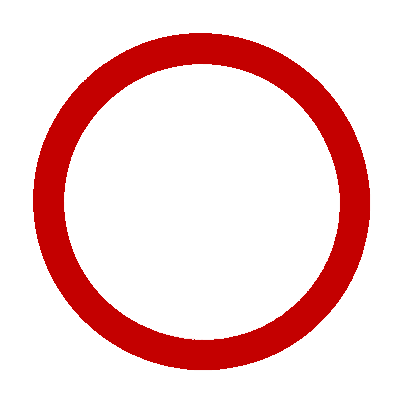
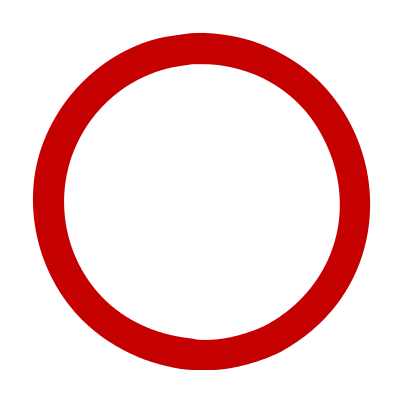
Minor changes to appearance.  Made the light theme images higher quality.

Changed region(s): [[0.45, 0.84, 0.48, 0.87]]

diff --git a/qml/ultimatetictactoe/Settings.qml b/qml/ultimatetictactoe/Settings.qml
@@ -40,7 +40,7 @@ Rectangle
     Flickable
     {
         id: flowListFLickable;
-        width: main.width/3;
+        width: main.width;
         height: titleHeight + buttonHeight + smallButtonHeight + 20*2;  //this is the height of all the objects in the flow added together plus the spacing (20 is the spacing of the flow and the number multiplied by 20 is the number of objects in it)
 
 
@@ -54,11 +54,11 @@ Rectangle
         contentHeight: main.height;
 
 
-        Flow
+        Flow  //This makes all of the settings easier to position
         {
             id: flow;
 
-            width: parent.width;
+            width: parent.width/3;
             height: parent.height;
             anchors.centerIn: parent;
 
@@ -112,20 +112,6 @@ Rectangle
 
             MyButton
             {
-                id: darkThemeButton;
-
-                width: main.smallButtonWidth;
-                height: main.smallButtonHeight;
-                buttonText: "Dark"
-
-                fontSize: Vals.smallFontSize;
-                textColor: "#333333"
-
-                onClick: switchTheme("dark");
-            }
-
-            MyButton
-            {
                 id: lightThemeButton;
 
                 width: darkThemeButton.width;
@@ -138,69 +124,95 @@ Rectangle
                 onClick: switchTheme("light");
             }
 
-
-        }
-
-
-        Rectangle
-        {
-            id: themeRect;
-            width: lightThemeButton.width;
-            height: lightThemeButton.height;
-            radius: height;
-            color: "steelblue";
-            opacity: .8;
-            z: -5; //so it is behind the other objects
-
-
-            y: lightThemeButton.y * .989;  //For some reason it wasn't quite centered on the text, so multiplying it by .989 fixes that problem
-            state:
+            MyButton
             {
-                if (Vals.theme === "dark")
-                    "darkState";
-                else if (Vals.theme === "light")
-                    "lightState"
+                id: darkThemeButton;
+
+                width: main.smallButtonWidth;
+                height: main.smallButtonHeight;
+                buttonText: "Dark"
+
+                fontSize: Vals.smallFontSize;
+                textColor: "#333333"
+
+                onClick: switchTheme("dark");
             }
 
-            states:  //the state its in determines its location
-            [
-                State
-                {
-                    name: "darkState";
-                    PropertyChanges
-                    {
-                        target: themeRect;
-                        x: darkThemeButton.x;
-                    }
-                },
-                State
-                {
-                    name: "lightState";
-                    PropertyChanges
-                    {
-                        target: themeRect;
-                        x: lightThemeButton.x;
-                    }
-                }
-            ]
-
-            transitions:  //makes the themeRect move between locations instead of jump between locations
-            [
-                Transition
-                {
-                    from: "*";
-                    to: "*";
-
-                    PropertyAnimation
-                    {
-                        properties: "x";
-                        duration: 150;  // if this is changed, be sure the duration of the animation in Main.qml is also changed.
-                    }
-                }
-
-            ]
 
         }
+
+        Rectangle //this rect has same size and position as the flow in order for the themeRect to be correctly positioned
+        {
+            height: flow.height;
+            width: flow.width;
+            x: flow.x;
+            y: flow.y;
+            z: -5; //so it is behind the other objects
+            color: "transparent"    //change if you want to see the dimensions and position of the flow layout
+
+            Rectangle
+            {
+                id: themeRect;
+                width: lightThemeButton.width;
+                height: lightThemeButton.height;
+                radius: height;
+                color: "steelblue";
+                opacity: .8;
+                z: -5; //so it is behind the other objects
+
+
+                y: lightThemeButton.y * .989;  //For some reason it wasn't quite centered on the text, so multiplying it by .989 fixes that problem
+                state:
+                {
+                    if (Vals.theme === "dark")
+                        "darkState";
+                    else if (Vals.theme === "light")
+                        "lightState"
+                }
+
+                states:  //the state its in determines its location
+                [
+                    State
+                    {
+                        name: "darkState";
+                        PropertyChanges
+                        {
+                            target: themeRect;
+                            x: darkThemeButton.x;
+                        }
+                    },
+                    State
+                    {
+                        name: "lightState";
+                        PropertyChanges
+                        {
+                            target: themeRect;
+                            x: lightThemeButton.x;
+                        }
+                    }
+                ]
+
+                transitions:  //makes the themeRect move between locations instead of jump between locations
+                [
+                    Transition
+                    {
+                        from: "*";
+                        to: "*";
+
+                        PropertyAnimation
+                        {
+                            properties: "x";
+                            duration: 150;  // if this is changed, be sure the duration of the animation in Main.qml is also changed.
+                        }
+                    }
+
+                ]
+
+            }
+
+        }
+
+
 
     }
 

diff --git a/qml/ultimatetictactoe/Game.qml b/qml/ultimatetictactoe/Game.qml
@@ -42,9 +42,9 @@ Item
         id: gameRect;
         //centers the grid in the middle of the toolbars.
         width: parent.width;
-        height: parent.height - topToolbar.height - titleRect.height - bottomToolbar.height;
+        height: parent.height - topToolbar.height - bottomToolbar.height;
         anchors.horizontalCenter: parent.horizontalCenter;
-        y: main.height/2.2; //random ratio that makes it look good
+        y: main.height/13; //random ratio that makes it look good
         color: "transparent";
 
         Grid
